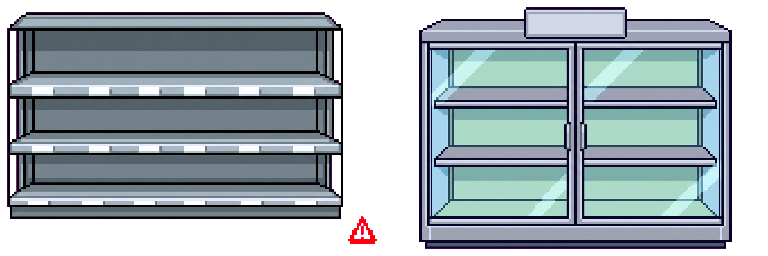
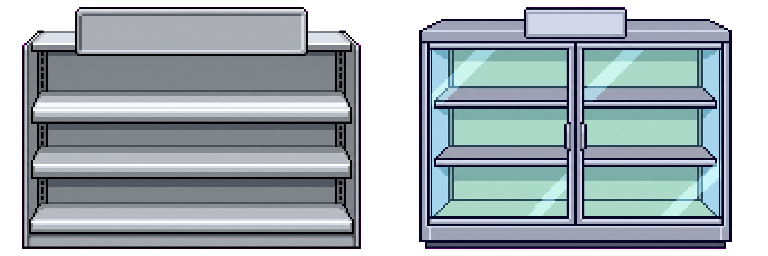
店内什器の描画不具合を修正(HUD重なり・紫の縁のはみ出し)
- 6タイル幅の広い什器(弁当・惣菜、雑誌)は、アトラス画像のアスペクト比を
  維持するため描画高さも比例して大きくなり、最上段に配置された什器では
  頭上の床スペースがないため上へはみ出してHUD(時刻・所持金等)の上に
  重なって描画されていた(drawHudの後にdrawStoreContentsを呼ぶ描画順の
  ため)。drawFixtureArtworkにminimumTopYクランプを追加し、什器の絵が
  営業エリアの最上端(HUD直下)より上に描画されないよう修正
- 常温ゴンドラの空什器画像(fixture-bases.png左セル)の外枠に、背景除去
  しきれなかった紫がかった縁が数px残っており、什器と什器の境目や床との
  境界に色のはみ出しとして見えていた。中立なグレーのみで陰影をつけるよう
  指示を強めて素材を再生成し差し替え

Claude-Session: https://claude.ai/code/session_01TR9wSdo3J4gt9Li5HBLALp

diff --git a/src/ui/storeArtAssets.ts b/src/ui/storeArtAssets.ts
@@ -212,6 +212,7 @@ export function drawFixtureArtwork(
   fixture: StoreFixture,
   snapshot: StoreOperationsSnapshot,
   bounds: DrawBounds,
+  minimumTopY = -Infinity,
 ): FixtureArtworkPlacement | undefined {
   const index = resolveFixtureArtIndex(fixture, snapshot);
   if (index === undefined) return undefined;
@@ -227,10 +228,16 @@ export function drawFixtureArtwork(
     : fixture.kind === "waste"
       ? Math.max(64, bounds.height * 1.75)
       : Math.max(88, Math.min(126, bounds.height * 2.45));
+  // Wider fixtures (e.g. a 6-tile bento case) scale up in height along with their
+  // width, since the atlas cell keeps a fixed aspect ratio. That overhang is fine
+  // over open floor, but a fixture sitting in the store's very first row has no
+  // floor above it to overhang into — clamp so the art never climbs above the
+  // playable area and paints over the HUD drawn earlier in the frame.
   const visualHeight = Math.max(naturalHeight, minimumHeight);
+  const destinationY = Math.max(minimumTopY, bounds.y + bounds.height - visualHeight + 5);
   const destination: DrawBounds = {
     x: bounds.x + (bounds.width - visualWidth) / 2,
-    y: bounds.y + bounds.height - visualHeight + 5,
+    y: destinationY,
     width: visualWidth,
     height: visualHeight,
   };

diff --git a/src/ui/storeGameRuntime.ts b/src/ui/storeGameRuntime.ts
@@ -313,7 +313,7 @@ function drawFixture(
 ): void {
   const bounds = fixtureBounds(fixture, geometry);
   const artwork = storeArtAssets
-    ? drawFixtureArtwork(context, storeArtAssets, fixture, snapshot, bounds)
+    ? drawFixtureArtwork(context, storeArtAssets, fixture, snapshot, bounds, geometry.gridY)
     : undefined;
   if (!artwork) drawFallbackFixture(context, fixture, bounds);
 
